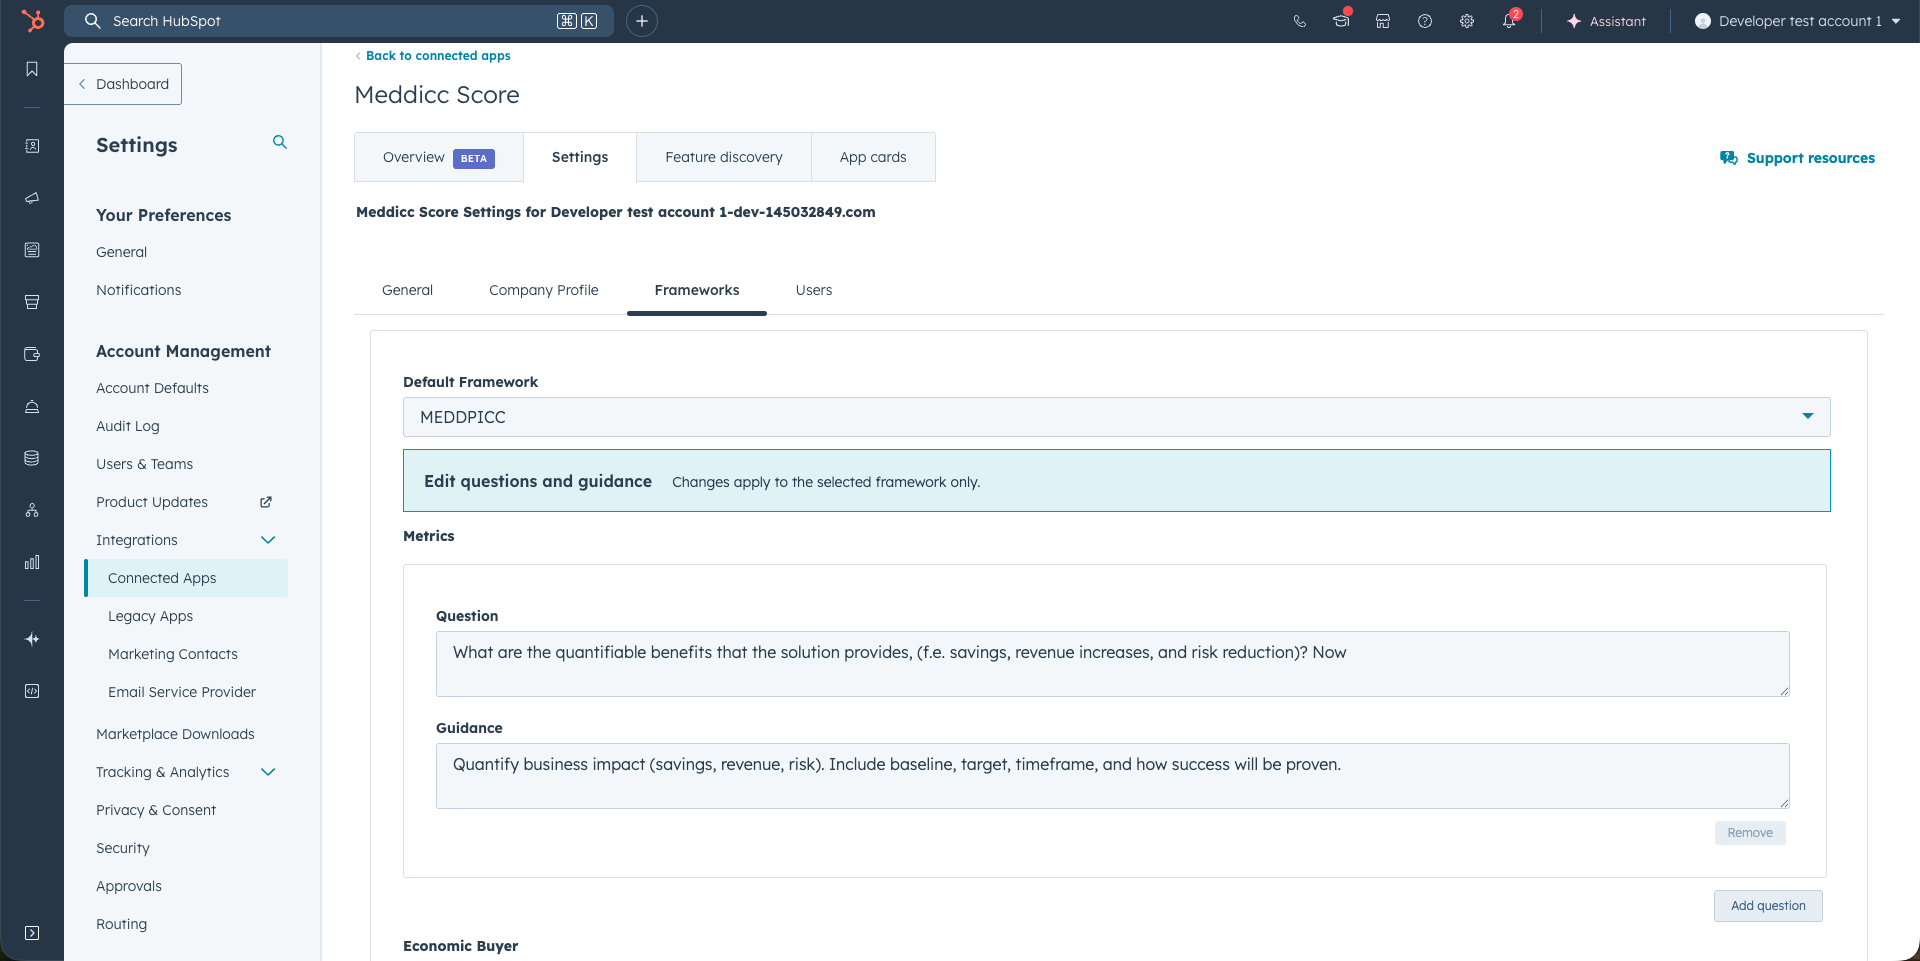
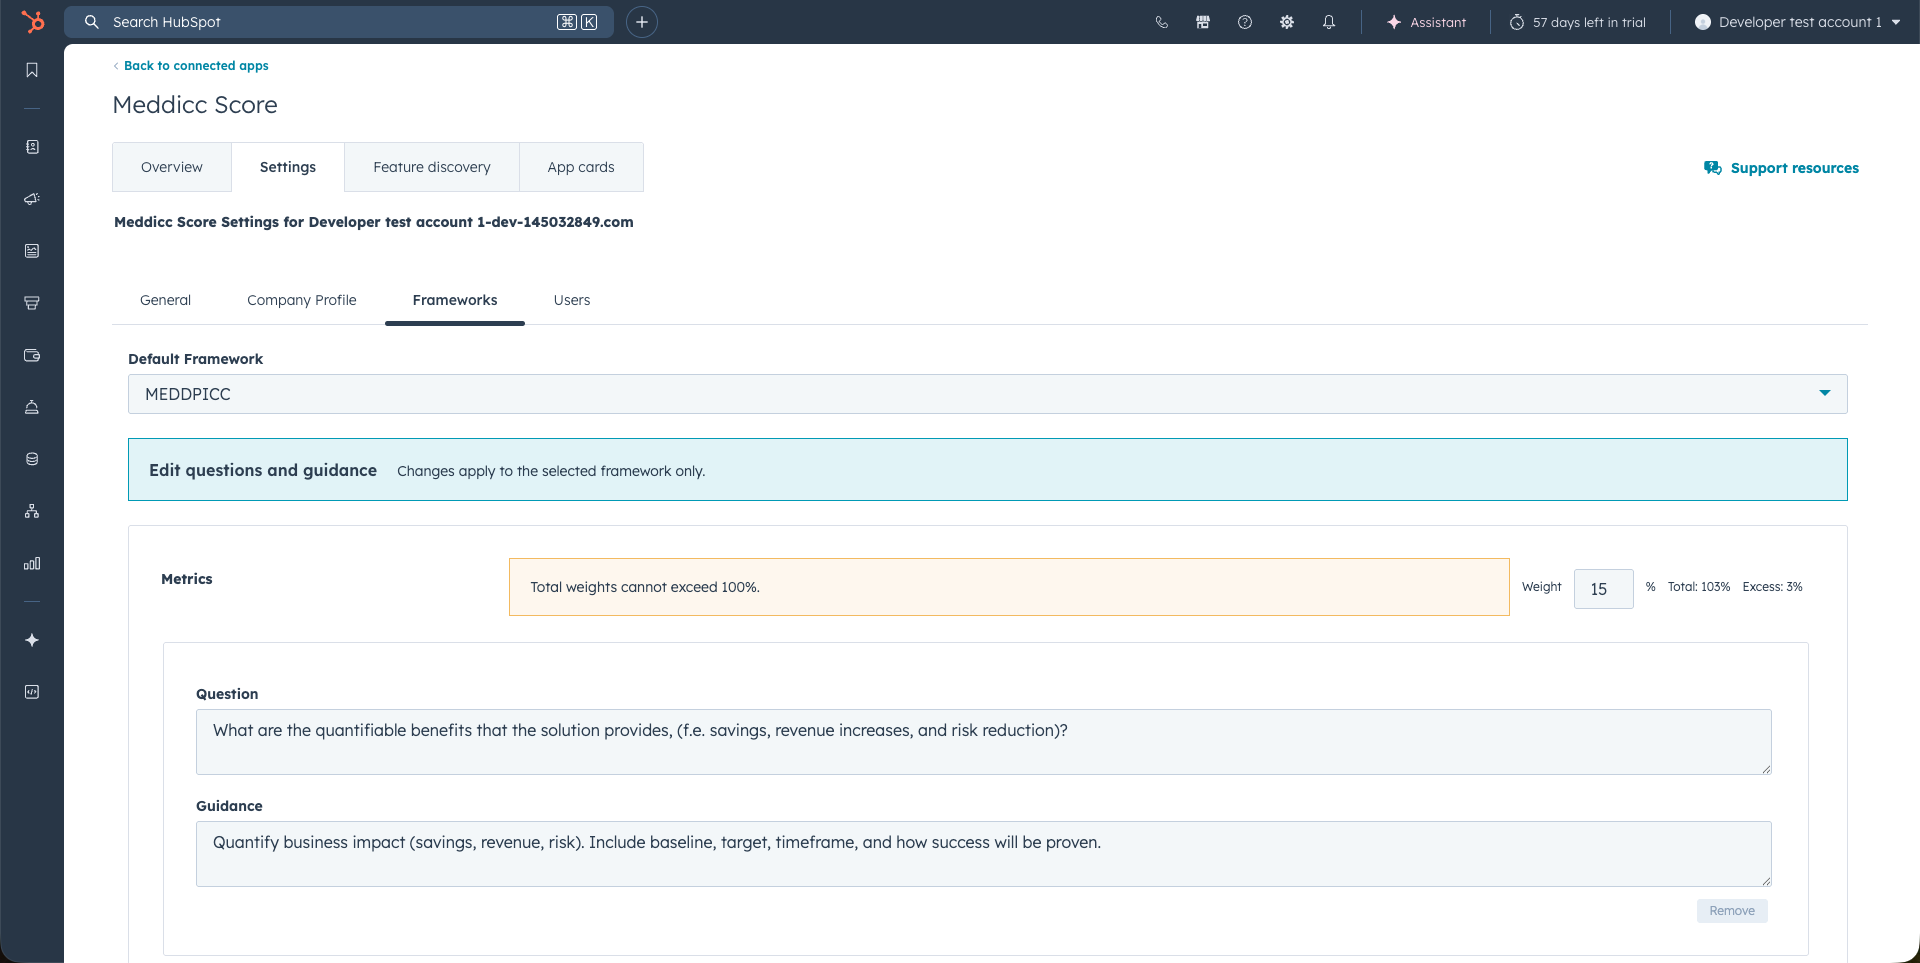
weights

diff --git a/_posts/2023-01-01-setup-guide.md b/_posts/2023-01-01-setup-guide.md
@@ -323,10 +323,10 @@ Note: Comments to engagements or attachments to the engagements are not gathered
   <li>Score of the forms go from 0 to 100. There are two options for Scoring the forms:</li>
   <ul>
     <li>
-      <strong>All the form together (default):</strong> When enabled, the entire form is evaluated by the selected AI LLM model, which generates a score based on the overall responses within the sales qualification framework and assesses the likelihood of successfully closing the deal. Please note that results may vary depending on the chosen model and the specific evaluation, and may sometimes be subject to interpretation or appear optimistic in nature.
+      <strong>All the form together (default):</strong> The selected AI model evaluates the form holistically and assigns a single score based on the overall completeness and deal quality. Results can vary by model and interpretation, and may sometimes skew optimistic. In this mode, section weights are not used.
     </li>
     <li>
-      <strong>Individual by sections:</strong> With this option, each section of the form (e.g., Metrics, Economic Buyer, etc.) is scored as either bad (0), medium (0.5), or good (1). The individual section scores are then summed, divided by the total number of sections, and multiplied by 100 to produce a final score between 0 and 100. This method provides more predictable and consistent results, though it may also lead to more repetitive scoring patterns.
+      <strong>Individual by sections (weighted):</strong> Each section of the form (e.g., Metrics, Economic Buyer, etc.) is rated as bad (0), medium (0.5), or good (1). The section score is multiplied by its weight configured in the Frameworks settings, and all section scores are summed to produce the final 0–100 score. If no weights are set, all sections are weighted equally. This method is more predictable and consistent, though it can lead to more repetitive scoring patterns.
     </li>
   </ul>
   <li><strong>Consider only the las XX days of engagements</strong>: By default, the AI analyzes the last 100 deal activities (notes, calls, meetings, etc). You can refine this by setting a specific day limit, ensuring the AI focuses only on your most recent—and relevant—engagements for refilling and scoring.</li>
@@ -454,6 +454,8 @@ Note: Comments to engagements or attachments to the engagements are not gathered
 <ul>
   <li>Only Admins can access this feature. Clicking on the Frameworks tab, allows the Admins to edit the questions and the guidance for that framework. The change will apply to all account members (not just the individual user). The modification will not affect the answers or scores previously submitted but will update the questions and guidance for all deals where that framework has been used.</li>
   <li>The framework selected will also be the Default framework for the entire account. Every new deal will use this framework by default. The change will not affect the answers or frameworks previously submitted in existing deals. The default framework is initially set to MEDDICC.</li>
+  <li><strong>Section weights (Scoring):</strong> In the Frameworks tab you can assign a weight (as a percentage) to each category. Those weights define the maximum points for each category in the “Individual by sections (weighted)” scoring method. The final score is the sum of each category’s rating (bad/medium/good = 0/0.5/1) multiplied by its weight.</li>
+  <li><strong>Validation:</strong> The weights must add up to exactly 100% to be saved. The UI shows the total and any remaining or excess percentage. If the total is not 100%, the weights are not saved and the system falls back to equal weighting across categories.</li>
 </ul>
 
 <p class="text-center"><img src="/assets/images/guide10n.png" alt="Editing" class="my-3 border border-3 border-primary rounded rounded-3"></p>
